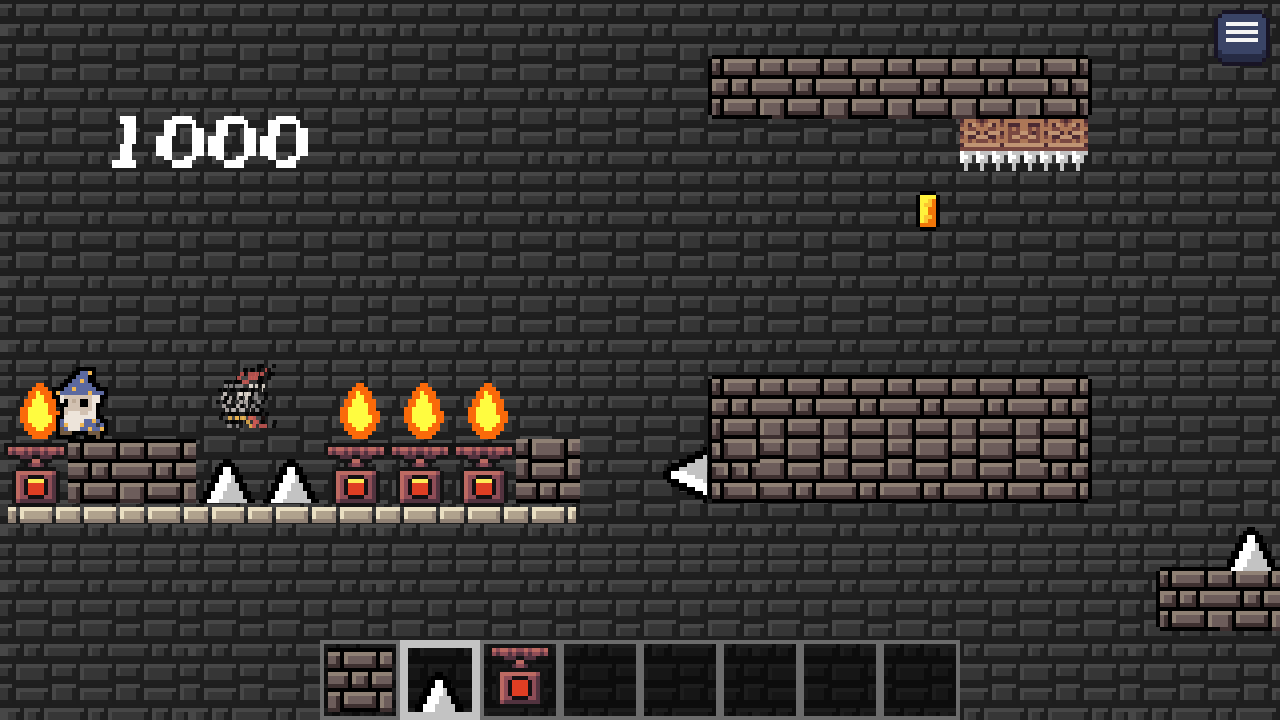
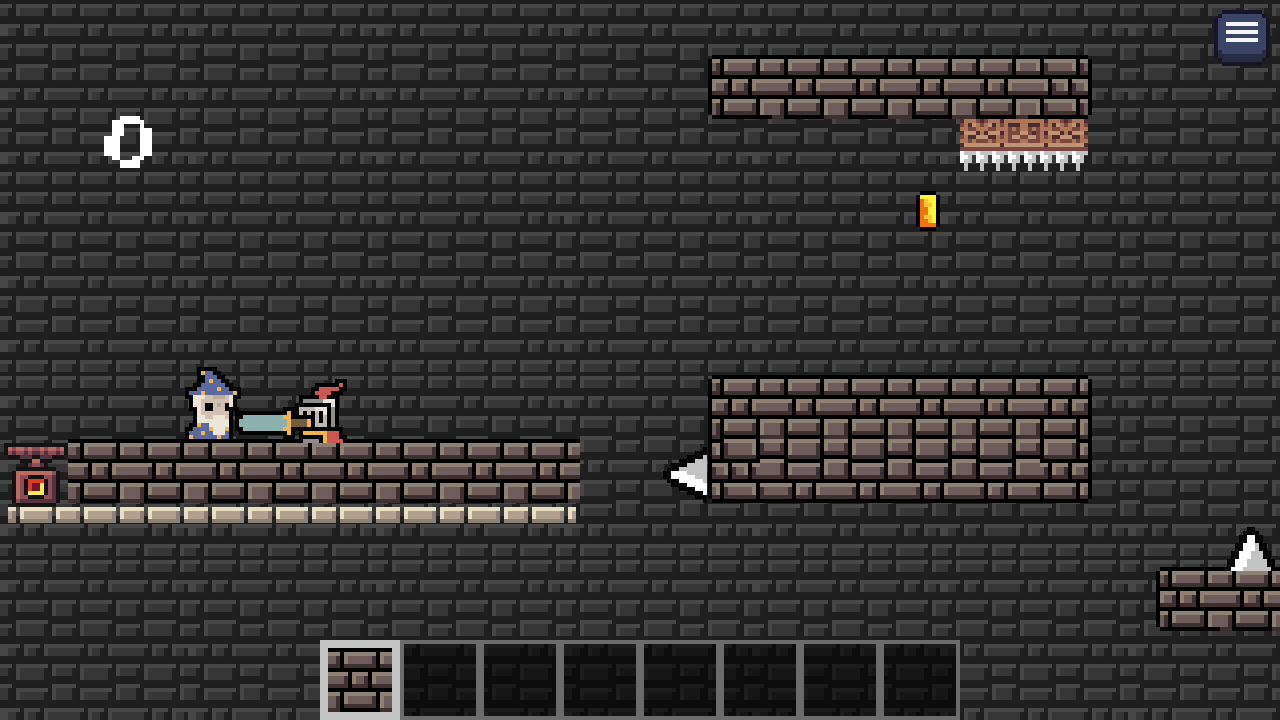
Fixed sword

diff --git a/assets/scripts/enemy.py b/assets/scripts/enemy.py
@@ -255,15 +255,20 @@ class Sword:
                     renderer.queue[0].is_alive = False
                     renderer.queue[0].deaths += 1
             else:
-                if renderer.queue[0].shield.health >= 0:
-                    if not self.just_hit:
-                        renderer.queue[0].shield.health -= self.level
-                        renderer.queue[0].shield.health_bar_rect.w -= renderer.queue[0].shield.unit_bar_length*self.level
-                        self.just_hit = True
+                if renderer.queue[0].using_shield:
+                    if renderer.queue[0].shield.health >= 0:
+                        if not self.just_hit:
+                            renderer.queue[0].shield.health -= self.level
+                            renderer.queue[0].shield.health_bar_rect.w -= renderer.queue[0].shield.unit_bar_length*self.level
+                            self.just_hit = True
+                    else:
+                        if self.mask.overlap(renderer.queue[0].mask, [renderer.queue[0].pos[0]-self.pos[0], renderer.queue[0].pos[1]-self.pos[1]])!=None:
+                            renderer.queue[0].is_alive = False
+                            renderer.queue[0].deaths += 1
                 else:
                     if self.mask.overlap(renderer.queue[0].mask, [renderer.queue[0].pos[0]-self.pos[0], renderer.queue[0].pos[1]-self.pos[1]])!=None:
-                        renderer.queue[0].is_alive = False
-                        renderer.queue[0].deaths += 1
+                            renderer.queue[0].is_alive = False
+                            renderer.queue[0].deaths += 1
             win.blit(pygame.transform.flip(self.spritesheet.get(self.frame), self.dir, False), self.pos)
        
             

diff --git a/assets/scripts/core_funcs.py b/assets/scripts/core_funcs.py
@@ -74,7 +74,7 @@ class DeathParticle:
     def update(self, renderer):
         if self.alpha > 0:
             self.alpha -= (2*renderer.dt)
-        self.pos[1] -= (1*renderer.dt)
+        self.pos[1] -= (1.5*renderer.dt)
         self.pos[0] = self.orig_x+randint(-5, 5)
         self.tex.set_alpha(self.alpha)
         win.blit(self.tex, [self.pos[0]+renderer.camera.cam_change[0], self.pos[1]])
